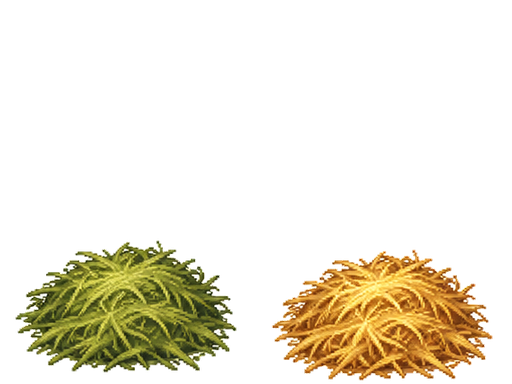
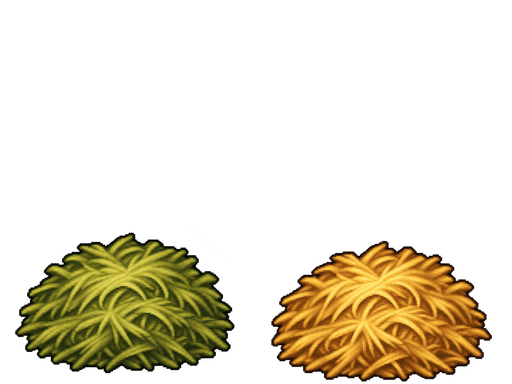
art(hay): loose hay and straw redrawn with real transparency
The piles were keyed off a white background, which left specks of white
caught between the strands. ChatGPT redrew them as dense piles on real alpha
(assets/lpc/new/hay_source.png); make_new_props.py now takes a source drawn
with transparency as it is, without keying.

Claude-Session: https://claude.ai/code/session_015H8bBwBoYmHtzQn6aSaAEB

Changed region(s): [[0.0312, 0.5938, 0.4688, 0.9688], [0.5312, 0.625, 0.9688, 1.0]]

diff --git a/scripts/make_new_props.py b/scripts/make_new_props.py
@@ -125,11 +125,14 @@ RECIPES = {
     'flowers': ('flowers_source.png', [('flowers', [c, 1, 1, 1]) for c in (0, 1, 2, 3, 5, 7, 8)]
                 + [('flowers', [c, r, 1, 1]) for r in (2, 3) for c in (5, 6, 7, 8)]),
     'props2': ('props2_source.png', [
-        ('lamp', [0, 0, 1, 3]), ('lamp', [1, 0, 1, 3]), ('hay', [0, 0, 2, 3]), ('hay', [2, 0, 2, 3]),
+        ('lamp', [0, 0, 1, 3]), ('lamp', [1, 0, 1, 3]), (None, None), (None, None),   # (the hay: 'hay' below)
         ('fountain', [0, 0, 2, 3]), ('runestone', [0, 0, 2, 2]), ('runestone', [2, 0, 2, 2]), ('campfire', [0, 0, 1, 1]),
         ('campfire', [0, 1, 1, 1], [[1, 1, 1, 1], [2, 1, 1, 1], [3, 1, 1, 1]]),
         ('pillar', [0, 0, 2, 3]), ('pillar', [3, 0, 2, 3]), ('pillar', [6, 0, 2, 3]), ('pillar', [2, 0, 1, 3]),
         ('clan_tents', [0, 0, 3, 3]), ('clan_tents', [3, 0, 3, 3]), ('pool', [0, 0, 3, 3])]),
+    # the loose hay and straw, redrawn with real transparency (the white-keyed piles kept specks of
+    # the background caught between their strands)
+    'hay': ('hay_source.png', [('hay', [0, 0, 2, 3]), ('hay', [2, 0, 2, 3])]),
     'props1': ('props1_source.png', [
         ('barrel', [0, 0, 1, 2, 0.8]), ('barrel', [1, 0, 1, 2, 0.8]), ('barrel', [3, 0, 2, 2, 0.8]), ('crate', [0, 0, 1, 2, 0.8]),
         ('crate', [1, 1, 1, 1, 0.75]), ('crate', [2, 1, 1, 1]), ('sawhorse', [0, 0, 1, 2]), ('lumber', [0, 2, 2, 1]),
@@ -200,9 +203,12 @@ def build(name):
     source, items, *opts = RECIPES[name]
     # ('shadows': key wider from the edge in, taking the pale grey ground shadows drawn under plants;
     #  'gaps': key the little patches of background caught between leaves, but not a white petal)
-    objs = objects(key_white(Image.open(os.path.join(NEW, source)), tol=70 if 'shadows' in opts else 28,
-                             holes=40 if 'gaps' in opts else 'holes' in opts),
-                   min_frac=0.004 if 'small' in opts else 0.03)
+    src = Image.open(os.path.join(NEW, source))
+    if src.mode == 'RGBA' and np.array(src)[..., 3].min() < 16:
+        keyed = src.convert('RGBA')   # drawn with real transparency: nothing to key
+    else:
+        keyed = key_white(src, tol=70 if 'shadows' in opts else 28, holes=40 if 'gaps' in opts else 'holes' in opts)
+    objs = objects(keyed, min_frac=0.004 if 'small' in opts else 0.03)
     if len(objs) != len(items):
         raise SystemExit(f'{name}: found {len(objs)} drawings, want {len(items)}')
     sheets = {}
